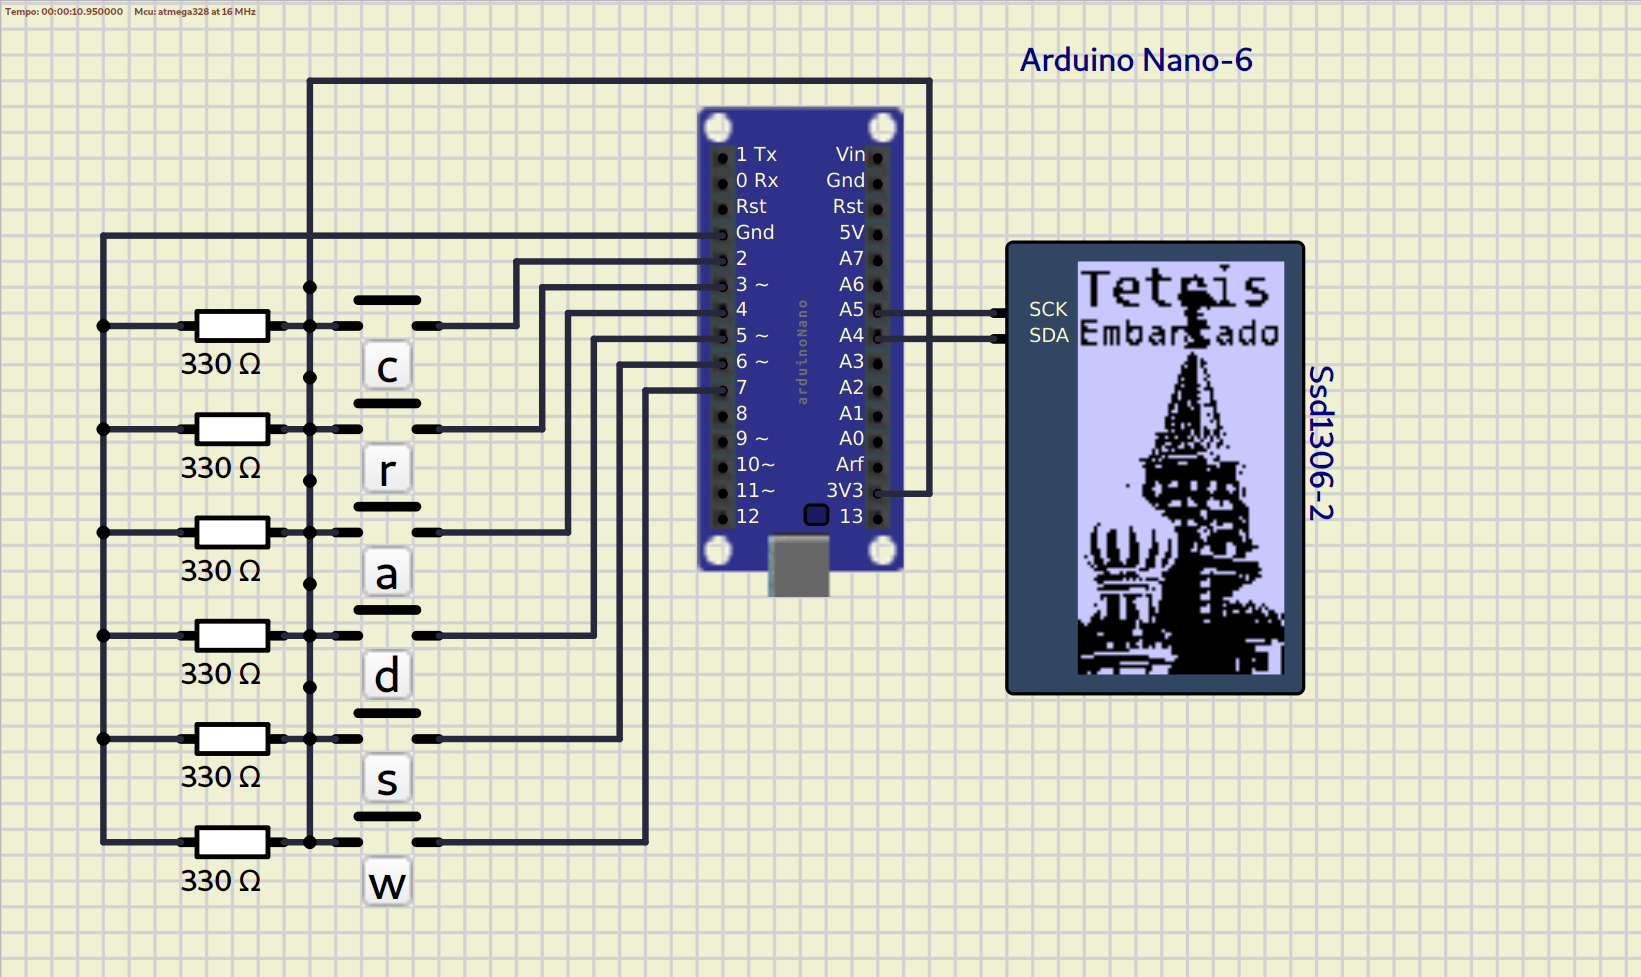
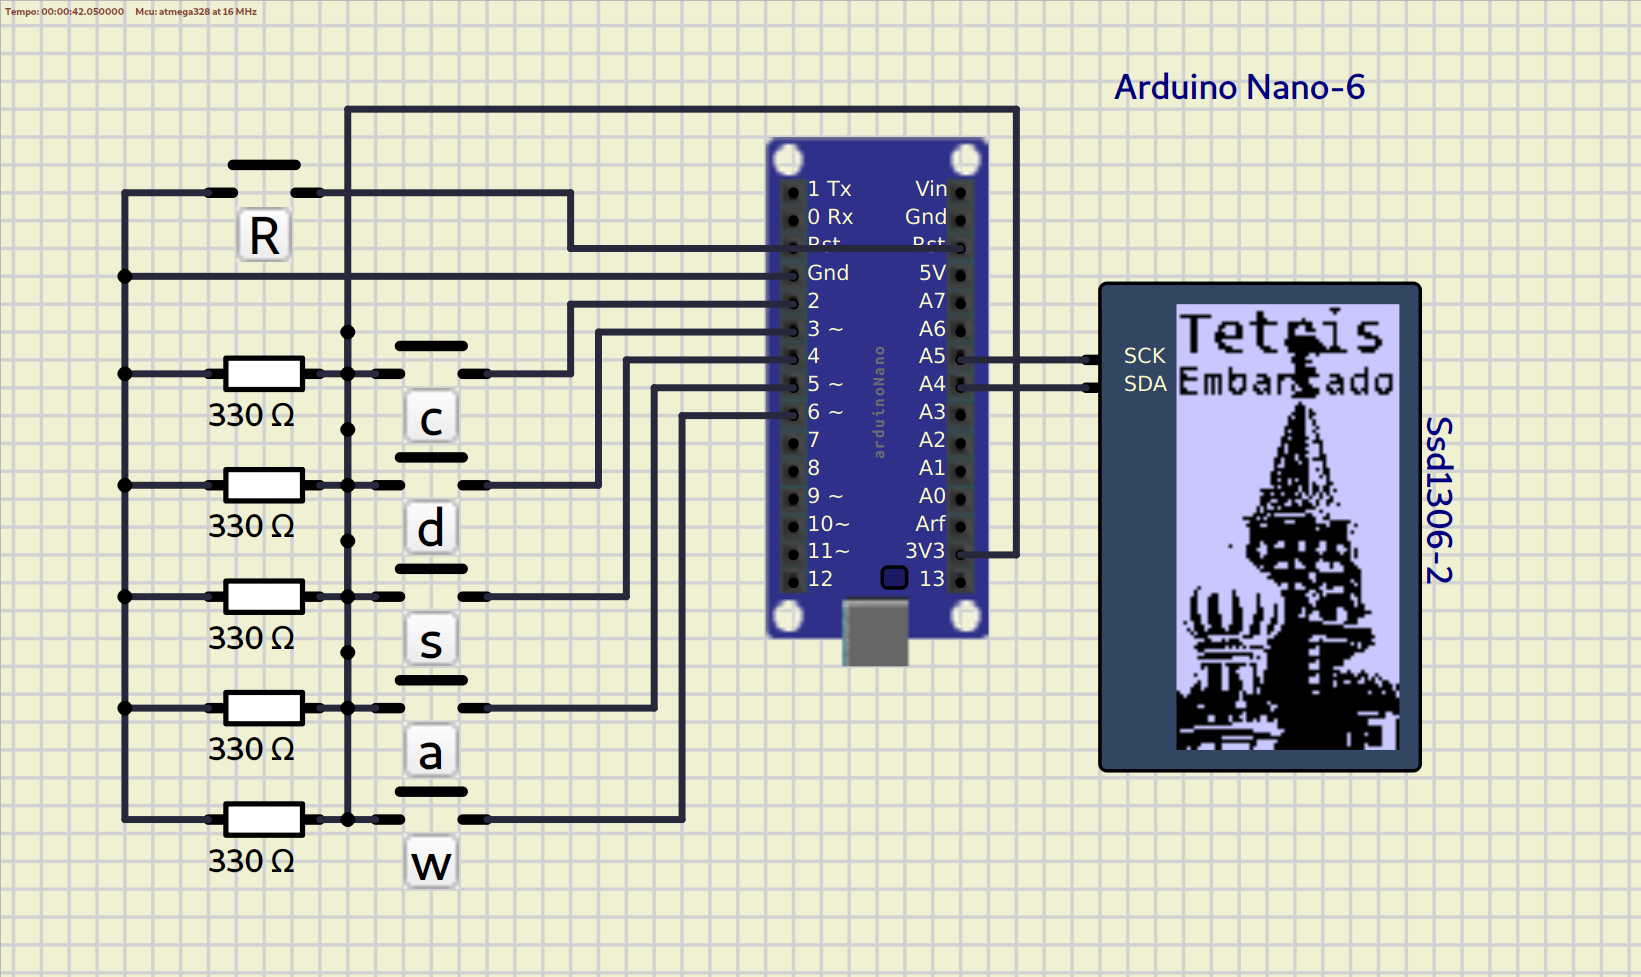
Adaptando o circuito e novo diagrama.

diff --git a/logic.cpp b/logic.cpp
@@ -11,7 +11,7 @@ void TetrisEmbarcado::moveToDown() {
     delay(50);
 
     // Ao precionar o botão dash a peça move mais rápido
-    if (flags == 5) {
+    if (flags == 4) {
       digitalWrite(13, LOW);
       ++z[i].y;
       delay(1);
@@ -21,11 +21,11 @@ void TetrisEmbarcado::moveToDown() {
   // Verifica se atingiu o limite máximo
   if (maxLimit()) {
     for (uint8_t i{ 0 }; i < squares; ++i) {
-      board[z[i].x][z[i].y] = true;
+      board[z[i].x - 1][z[i].y] = true;
     }
 
     // Verifica se houve algum preenchimento de linhas
-    checkLines();
+    //checkLines();
 
     // Gera uma nova peça
     spawPiece();
@@ -56,7 +56,7 @@ void TetrisEmbarcado::setRotate() {
 // Função que move a peça para a esqueda ou direita
 void TetrisEmbarcado::changePosition() {
   uint8_t flags{ events() };  // Variável que pega os eventos do teclado.
-  if (flags == 3 || flags == 4) {
+  if (flags == 2 || flags == 3) {
     digitalWrite(13, LOW);
     for (uint8_t i{ 0 }; i < squares; ++i) {
       k[i] = z[i];
@@ -74,7 +74,7 @@ void TetrisEmbarcado::changePosition() {
 // Função que checa as linhas do tabuleiro
 void TetrisEmbarcado::checkLines() {
   bool line_cleared = false;
-  for (auto i{ lines - 2 }; i > 0; --i) {
+  for (auto i{ 0 }; 0 < lines - 2; ++i) {
     bool full_line = true;
     for (auto j{ 1 }; j < cols - 1; ++j) {
       if (!board[i][j]) {
@@ -85,9 +85,10 @@ void TetrisEmbarcado::checkLines() {
 
     if (full_line) {
       line_cleared = true;
-      removeLine(i);  // Chamada da função removeLine para remover a linha completa
+      removeLine(i);
     }
   }
+
   if (line_cleared) {
     ++score;
   }
@@ -95,14 +96,13 @@ void TetrisEmbarcado::checkLines() {
 
 // Função que remove as peças caso seja completa
 void TetrisEmbarcado::removeLine(uint8_t line) {
-  for (uint8_t y = line; y > 0; --y) {
-    for (uint8_t x = 1; x < cols - 1; ++x) {
-      board[y][x] = board[y - 1][x];
+  for (auto k{ 0 }; 0 < line - 2; ++k) {
+    for (auto j{ 1 }; j < cols - 1; ++j) {
+      board[k][j] = board[k - 1][j];
     }
   }
-
-  for (uint8_t x = 1; x < cols - 1; ++x) {
-    board[0][x] = false;
+  for (auto j{ 1 }; j < cols - 1; ++j) {
+    board[lines + 5][j] = false;
   }
 }
 

diff --git a/events.cpp b/events.cpp
@@ -4,7 +4,6 @@
 uint8_t TetrisEmbarcado::events() {
   // Definição do modo dos botões
   pinMode(KEY_START, INPUT);
-  pinMode(KEY_RESTART, INPUT);
   pinMode(KEY_LEFT, INPUT);
   pinMode(KEY_RIGHT, INPUT);
   pinMode(KEY_DASH, INPUT);
@@ -16,20 +15,17 @@ uint8_t TetrisEmbarcado::events() {
   if (digitalRead(KEY_START) == HIGH) {
     return flags = 1;
   }
-  if (digitalRead(KEY_RESTART) == HIGH) {
+  if (digitalRead(KEY_LEFT) == HIGH) {
     return flags = 2;
   }
-  if (digitalRead(KEY_LEFT) == HIGH) {
+  if (digitalRead(KEY_RIGHT) == HIGH) {
     return flags = 3;
   }
-  if (digitalRead(KEY_RIGHT) == HIGH) {
+  if (digitalRead(KEY_DASH) == HIGH) {
     return flags = 4;
   }
-  if (digitalRead(KEY_DASH) == HIGH) {
-    return flags = 5;
-  }
   if (digitalRead(KEY_ROTATE) == HIGH) {
-    return flags = 6;
+    return flags = 5;
   }
   return flags;
 }
@@ -39,37 +35,24 @@ void TetrisEmbarcado::logicMenu() {
   uint8_t event = events();
   switch (event) {
     case 1:
-      // digitalWrite(13, HIGH);
-      // startgame = true;
-      // gameover = false;
+      digitalWrite(13, HIGH);
+      gameover = true;
       break;
     case 2:
-      // digitalWrite(13, LOW);
-      // resetGame();
-      // gameover = true;
-      // startgame = false;
-      break;
-    case 3:
       digitalWrite(13, HIGH);
       --dirx;
       break;
-    case 4:
+    case 3:
       digitalWrite(13, HIGH);
       ++dirx;
       break;
-    case 5:
+    case 4:
       digitalWrite(13, HIGH);
       break;
-    case 6:
+    case 5:
       digitalWrite(13, HIGH);
       rotate = true;
       break;
-      //   default:
-      //     digitalWrite(13, LOW);
-      //     logo();
-      //     startgame = false;
-      //     gameover = true;
-      //     break;
   }
 }
 
@@ -82,11 +65,12 @@ void TetrisEmbarcado::resetValues() {
 void TetrisEmbarcado::gameOver() {
   display.clearDisplay();
   drawGameover();
+  delay(2000);  // Aguarda 2 segundos
   gameover = true;
   digitalWrite(13, LOW);
 }
 
 // Função que calcula os pontos do jogador.
 void TetrisEmbarcado::setScore() {
-  // score++;
+  score++;
 }

diff --git a/screen.cpp b/screen.cpp
@@ -9,16 +9,16 @@ void TetrisEmbarcado::initBoard() {
   }
 }
 
-// Função que desenha a interface do jogo
+// Função que desenha o tabuleiro do jogo
 void TetrisEmbarcado::drawUI() {
   uint8_t x0{ 1 }, y0{ 1 }, x1{ display.width() - 2 }, y1{ display.height() - 2 };
   display.setCursor(3, 0);
   display.setTextColor(1);
   display.setTextSize(1);
   display.println("Score:" + String(score));
-  // Desenha as linhas horizontais
+  // Desenha a linha horizontal no final da tela
   display.drawLine(x0, y1, x1, y1, 1);
-  // Desenha as linhas verticais
+  // Desenha as linhas verticais da tela
   display.drawLine(x0, y0, x0, y1, 1);
   display.drawLine(x1, y0, x1, y1, 1);
 }
@@ -33,9 +33,9 @@ void TetrisEmbarcado::drawGame() {
     uint8_t x = z[i].x;
     uint8_t y = z[i].y;
     display.drawBitmap(x * 5, y * 5, bitmap_Bloco, 4, 4, 1);
-    if (board[x][y]) {
-      display.drawBitmap(x * 5, y * 5, bitmap_Bloco, 4, 4, 1);
-    }
+    // if (board[x][y]) {
+    //   display.drawBitmap(x * 5, y * 5, bitmap_Bloco, 4, 4, 1);
+    // }
   }
   display.display();
 }
@@ -61,8 +61,8 @@ void TetrisEmbarcado::resetGame() {
   logo();       // Exibe a tela inicial
   delay(2000);  // Aguarda 2 segundos
 
-  score = 0;         // Reinicia a pontuação
-  gameover = false;  // Reinicia o estado do jogo
+  score = 0;        // Reinicia a pontuação
+  gameover = true;  // Reinicia o estado do jogo
 
   initBoard();
   spawPiece();

diff --git a/tetris.hpp b/tetris.hpp
@@ -13,11 +13,10 @@ private:
 
   uint8_t dirx;  // Variável que faz o movimento do jogo.
   // Limite do score é 255
-  uint8_t score{ 0 };       // Variável da pontuação do jogo.
-  bool rotate{ false };     // Variável que detecta a ação do teclado de girar a peça.
-  bool startgame{ false };  // Variável para controlar o início do jogo
-  bool gameover{ false };   // Variável que controla se o jogo continua ou para.
-  // float timercount;
+  uint8_t score{ 0 };      // Variável da pontuação do jogo.
+  bool rotate{ false };    // Variável que detecta a ação do teclado de girar a peça.
+  bool gameover{ false };  // Variável que controla se o jogo continua ou para.
+  uint8_t flags = 0;       // Variável que pega os eventos do teclado.
 
   // Declaração da variável do display
   Adafruit_SSD1306 display;

diff --git a/tetris.cpp b/tetris.cpp
@@ -29,17 +29,18 @@ void TetrisEmbarcado::setup() {
 // da interface.
 void TetrisEmbarcado::loop() {
   display.setRotation(3);
-  logicMenu();
-  if (!gameover /*&& startgame*/) {
-    // Jogo em andamento
-    drawGame();
-    changePosition();
-    moveToDown();
-    setRotate();
-    resetValues();
-    setScore();
-  } else {
-    // Jogo encerrado
-    resetGame();
-  }
+  logo();
+  // logicMenu();
+  // drawGame();
+  // if (!gameover) {
+  //   // Jogo em andamento
+  //   changePosition();
+  //   moveToDown();
+  //   setRotate();
+  //   resetValues();
+  //   setScore();
+  // } else {
+  //   // Jogo encerrado
+  //   gameOver();
+  // }
 }

diff --git a/constante.hpp b/constante.hpp
@@ -12,11 +12,10 @@ const uint8_t OLED_RESET{ -1 };
 
 // Botões
 const uint8_t KEY_START{ 2 };
-const uint8_t KEY_RESTART{ 3 };
-const uint8_t KEY_LEFT{ 4 };
-const uint8_t KEY_RIGHT{ 5 };
-const uint8_t KEY_DASH{ 6 };
-const uint8_t KEY_ROTATE{ 7 };
+const uint8_t KEY_RIGHT{ 3 };
+const uint8_t KEY_DASH{ 4 };
+const uint8_t KEY_LEFT{ 5 };
+const uint8_t KEY_ROTATE{ 6 };
 
 // Setup das peças
 const uint8_t squares{ 4 };
